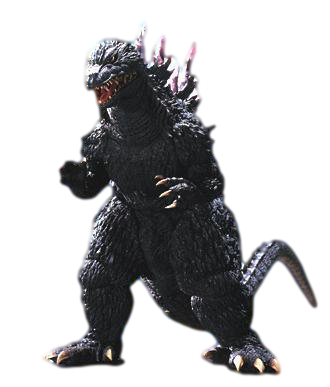
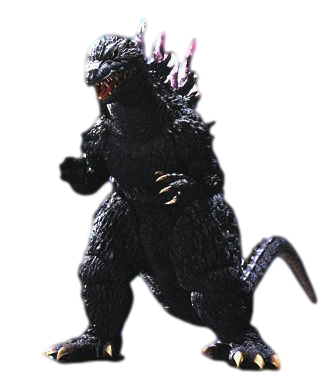
adjusting images, seek solution for padding with responsive effect

diff --git a/examples/simple.html b/examples/simple.html
@@ -21,36 +21,33 @@
 	<div id="container" class="container">
 		<ul id="scene1" class="scene1">
 			
-		<li class="layer" data-depth="0.10" id="godzilla" ><img src="images/godzilla.png"></li>
- 		<li class="layer" data-depth="0.20"><img id="ship" src="images/right_ship.png"></li>		
- 		<!-- <li class="layer" data-depth="0.50"><img src="images/right_wave_without_ship.png"></li> -->
-<!--  		 <li class="layer" data-depth="0.70"><img src="images/small_wave.png"></li>
- -->
+		<li class="layer" id="godzilla" data-depth="0.50"  ><img id="something" src="images/godzilla.png"></li>
+		 <li class="layer" id="blue-wave" data-depth="0.50" ><img src="images/glowing-waves-bioluminescent.png"></li>
+		 <li class="layer" id="pink-jellyfish-1" data-depth="0.50"><img src="images/pale_pink_jellyfish.png"></li>
 
+ 		<li class="layer" data-depth="0.20"><img id="ship" src="images/right_ship.png"></li>	
 
  		<li class="layer" data-depth="0.80"><img src="images/large_wave_back.png"></li>
  		 <li class="layer" data-depth="1.00"><img src="images/front_wave_large.png"></li>
 
-<!--  		 <li class="layer" data-depth="1.00"><img src="images/front_wave.png"></li>
- -->
- 	<!-- 	<li class="layer" data-depth="1.00"><img src="images/hokusai_wave_large1.png"></li> -->
 		</ul>
 	</div>
 
+
+	<!-- SCENE 2 -->
 	<div id="container" class="container">
 
 		<ul id="scene2" class="scene2">
-
-			<li class="layer" data-depth="1.00"><img src="images/layer1.png"></li>
+			<!-- <li class="layer" data-depth="1.00"><img src="images/layer1.png"></li>
 			<li class="layer" data-depth="0.80"><img src="images/layer2.png"></li>
 			<li class="layer" data-depth="0.60"><img src="images/layer3.png"></li>
 			<li class="layer" data-depth="0.40"><img src="images/layer4.png"></li>
 			<li class="layer" data-depth="0.20"><img src="images/layer5.png"></li>
-			<li class="layer" data-depth="0.00"><img src="images/layer6.png"></li>
-			<li class="layer" data-depth="0.60"><img src="images/pale_pink_jellyfish.png"></li>
-			<!-- <li class="layer" data-depth="0.20"><img src="images/upsidedown_blue_jellyfish.png"></li> -->
-		<!-- 	<li class="layer" data-depth="0.80"><img src="images/upsidedown_blue_jellyfish1.png"></li>
-			<li class="layer" data-depth="0.40"><img src="images/upsidedown_blue_jellyfish2.png"></li> -->
+			<li class="layer" data-depth="0.00"><img src="images/layer6.png"></li> -->
+			
+			<li class="layer" data-depth="0.20"><img src="images/upsidedown_blue_jellyfish.png"></li>
+			<li class="layer" data-depth="0.80"><img src="images/upsidedown_blue_jellyfish1.png"></li>
+			<li class="layer" data-depth="0.40"><img src="images/upsidedown_blue_jellyfish2.png"></li>
 			<li class="layer" data-depth="0.40"><img src="images/small_upward_blue_jellyfish.png"></li>
 
 		</ul>

diff --git a/examples/styles/styles.css b/examples/styles/styles.css
@@ -15,9 +15,27 @@ img {
 }
 
 #godzilla img{
-  padding-left: 550px;
-  padding-top: 150px;
+
+  float: left;   
+  width: 60%;   
+  margin-left: 50%;
+  margin-top: 20px;  
+  margin-right: -100%;
+}
+
+
+
+
+
+#blue-wave img{
+    padding-top: 130px;
+}
+
+#pink-jellyfish-1 img{
   width: 50%;
+  padding-left: 350px;
+  padding-top: 670px;
+
 }
 
 #ship img{
